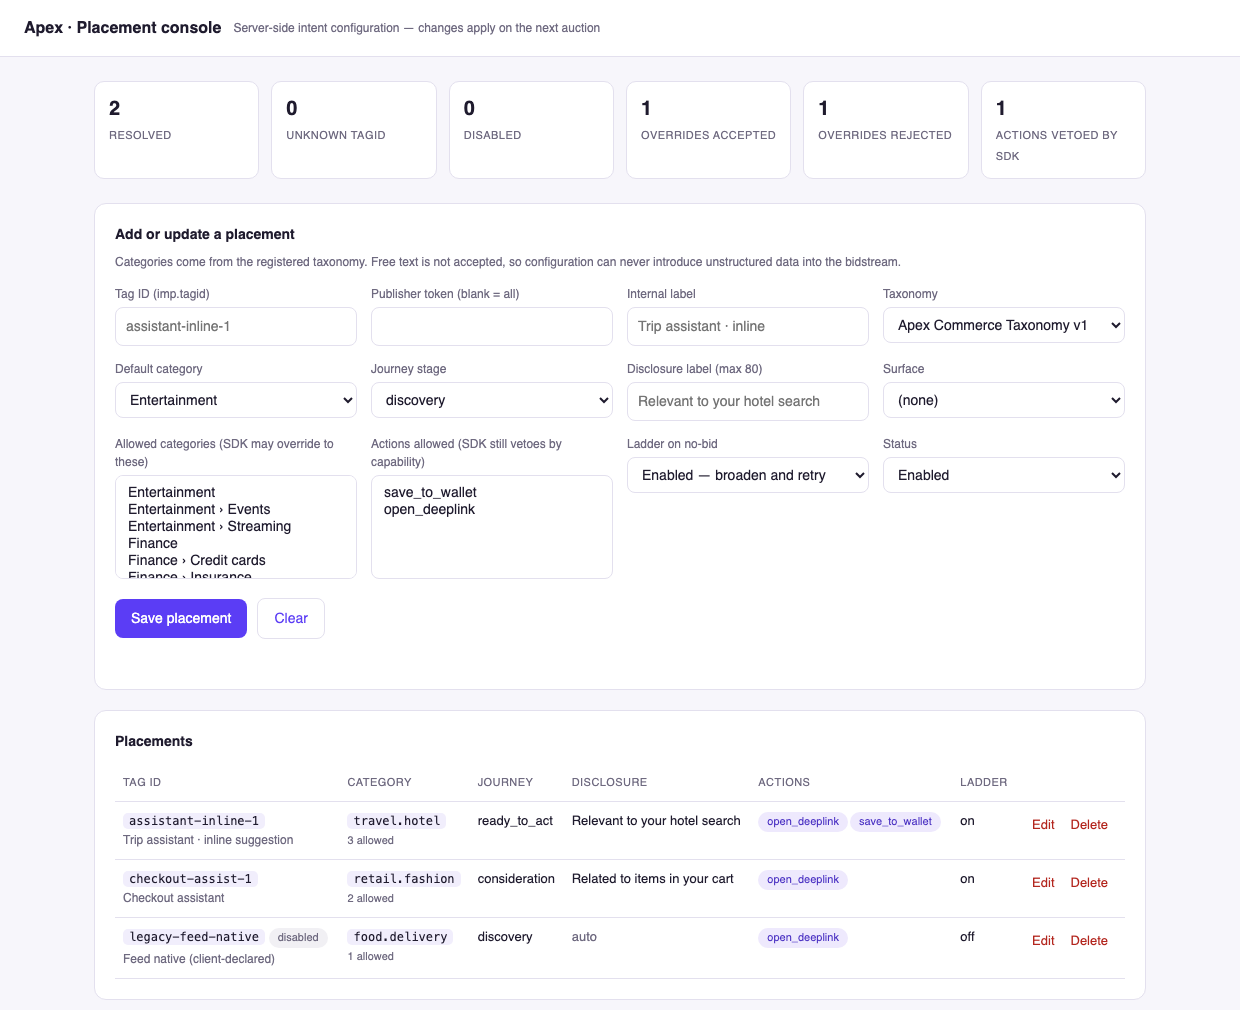
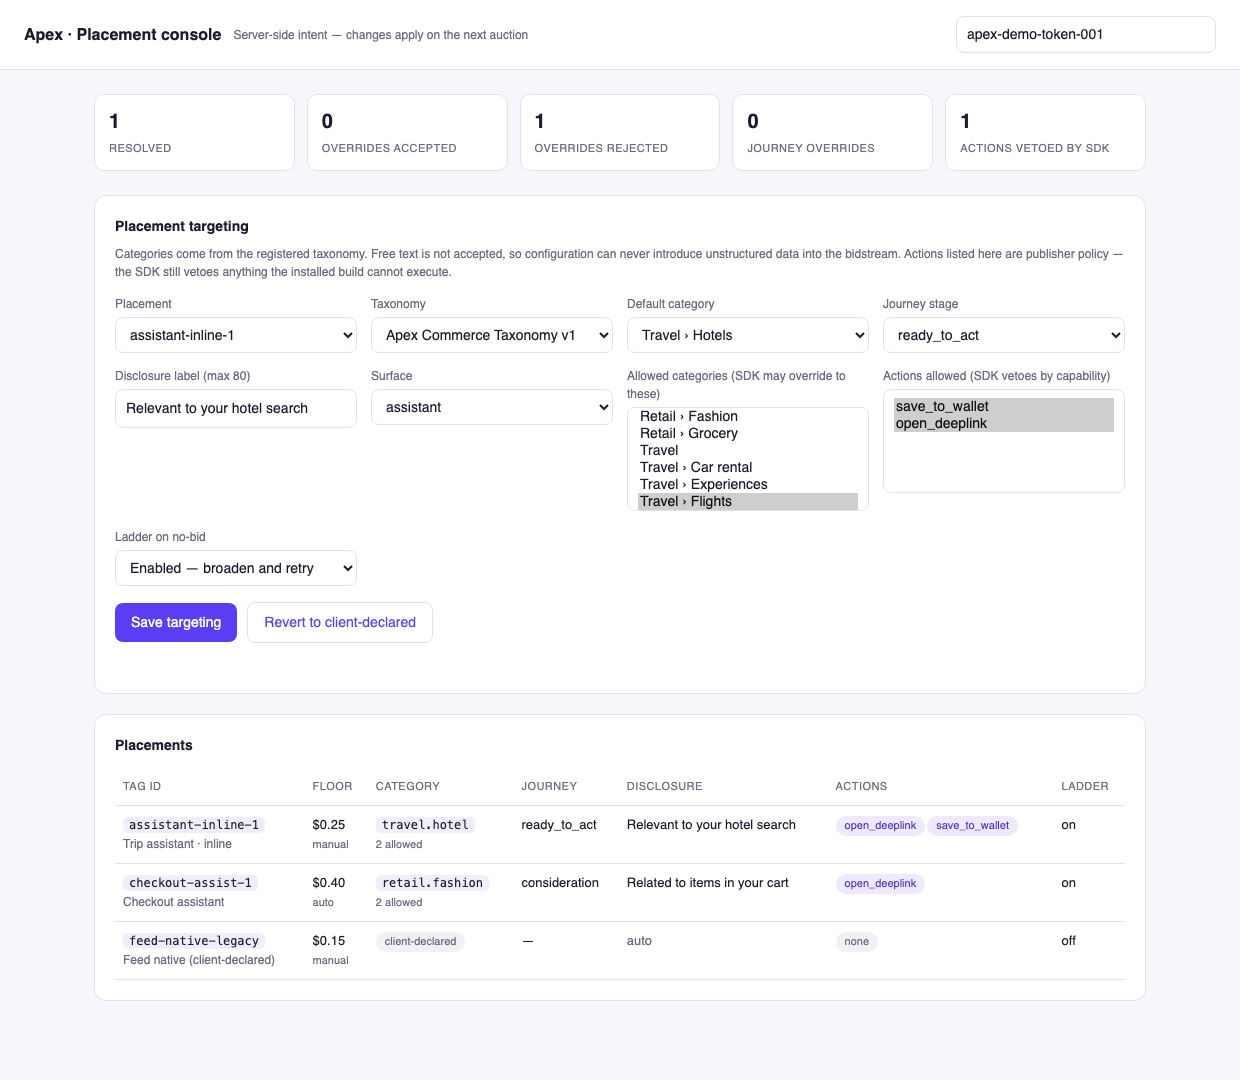
docs: point Card Live 2 at the merged publisher console
The placement console now lives on the publisher surface at
/publisher/v1/console, authenticated by the publisher's own token, with floors
and targeting on the same placement record. Updates the screenshot and the
cross-repo link accordingly.

diff --git a/demo-app/src/androidTest/java/com/apexads/demo/ApexIntelligenceLoadInstrumentationTest.java b/demo-app/src/androidTest/java/com/apexads/demo/ApexIntelligenceLoadInstrumentationTest.java
@@ -1,0 +1,145 @@
+package com.apexads.demo;
+
+import static com.google.common.truth.Truth.assertThat;
+
+import android.app.Application;
+import android.os.Bundle;
+
+import androidx.annotation.NonNull;
+import androidx.test.core.app.ApplicationProvider;
+import androidx.test.ext.junit.runners.AndroidJUnit4;
+import androidx.test.platform.app.InstrumentationRegistry;
+
+import com.apexads.sdk.ApexAds;
+import com.apexads.sdk.ApexAdsConfig;
+import com.apexads.sdk.banner.BannerAd;
+import com.apexads.sdk.banner.BannerAdListener;
+import com.apexads.sdk.core.error.AdError;
+import com.apexads.sdk.core.models.AdSize;
+import com.apexads.sdk.core.models.openrtb.BidRequest;
+import com.apexads.sdk.core.request.OpenRTBRequestBuilder;
+import com.apexads.sdk.internal.ApexSdkRuntime;
+
+import org.junit.After;
+import org.junit.Before;
+import org.junit.Test;
+import org.junit.runner.RunWith;
+
+import java.util.ArrayList;
+import java.util.List;
+import java.util.concurrent.CountDownLatch;
+import java.util.concurrent.TimeUnit;
+import java.util.concurrent.atomic.AtomicInteger;
+
+/**
+ * Sends real SDK-built auction requests to a developer-supplied Ad Server.
+ *
+ * <p>The test intentionally never calls {@code show()}. Consequently it never
+ * renders an ad and never fires win, bill, viewable-impression, click, or
+ * conversion trackers. Every request is test mode, LMT/DNT, and identity-free.</p>
+ */
+@RunWith(AndroidJUnit4.class)
+public class ApexIntelligenceLoadInstrumentationTest {
+
+    private static final String DEFAULT_ENDPOINT =
+            "http://10.0.2.2:18080/openrtb/v1/auction";
+    private static final int DEFAULT_LOAD_COUNT = 250;
+    private static final int DEFAULT_BATCH_SIZE = 25;
+
+    private int loadCount;
+    private int batchSize;
+
+    @Before
+    public void setUp() {
+        ApexSdkRuntime.reset();
+        Bundle arguments = InstrumentationRegistry.getArguments();
+        loadCount = boundedInt(arguments.getString("apexLoadCount"), DEFAULT_LOAD_COUNT, 1, 10_000);
+        batchSize = boundedInt(arguments.getString("apexBatchSize"), DEFAULT_BATCH_SIZE, 1, 100);
+        String endpoint = arguments.getString("apexAdServerUrl", DEFAULT_ENDPOINT);
+
+        Application application = ApplicationProvider.getApplicationContext();
+        ApexAds.init(application, new ApexAdsConfig.Builder("apex-intelligence-synthetic")
+                .adServerUrl(endpoint)
+                .trackingUrl("http://10.0.2.2:18080")
+                .requestTimeoutMs(2_000)
+                .cacheTtlSeconds(1)
+                .coppa(1)
+                .testMode(true)
+                .debugFakeFill(false)
+                .debugLogging(false)
+                .build());
+    }
+
+    @After
+    public void tearDown() {
+        ApexSdkRuntime.reset();
+    }
+
+    @Test
+    public void sendsSyntheticAuctionLoadsWithoutRenderingOrTracking() throws Exception {
+        BidRequest identityProbe = new OpenRTBRequestBuilder(
+                ApexSdkRuntime.getDeviceInfoProvider(),
+                ApexSdkRuntime.getConsentManager())
+                .placementId("identity-safety-probe")
+                .build();
+        assertThat(identityProbe.device.ifa).isNull();
+        assertThat(identityProbe.user.id).isNull();
+        assertThat(identityProbe.device.lmt).isEqualTo(1);
+        assertThat(identityProbe.device.dnt).isEqualTo(1);
+
+        AtomicInteger loaded = new AtomicInteger();
+        AtomicInteger failed = new AtomicInteger();
+
+        for (int offset = 0; offset < loadCount; offset += batchSize) {
+            int batchCount = Math.min(batchSize, loadCount - offset);
+            CountDownLatch completed = new CountDownLatch(batchCount);
+            List<BannerAd> batch = new ArrayList<>(batchCount);
+
+            for (int index = 0; index < batchCount; index++) {
+                int sequence = offset + index;
+                BannerAd ad = new BannerAd.Builder("intelligence-synthetic-" + sequence)
+                        .adSize(AdSize.BANNER_320x50)
+                        .bidFloor(0.05)
+                        .listener(new BannerAdListener() {
+                            @Override
+                            public void onAdLoaded() {
+                                loaded.incrementAndGet();
+                                completed.countDown();
+                            }
+
+                            @Override
+                            public void onAdFailed(@NonNull AdError error) {
+                                failed.incrementAndGet();
+                                completed.countDown();
+                            }
+                        })
+                        .build();
+                batch.add(ad);
+                ad.load();
+            }
+
+            assertThat(completed.await(30, TimeUnit.SECONDS)).isTrue();
+            for (BannerAd ad : batch) {
+                ad.destroy();
+            }
+        }
+
+        int completed = loaded.get() + failed.get();
+        System.out.println("APEX_SYNTHETIC_LOAD_SUMMARY requested=" + loadCount
+                + " batch_size=" + batchSize
+                + " completed=" + completed
+                + " loaded=" + loaded.get()
+                + " failed=" + failed.get());
+        assertThat(completed).isEqualTo(loadCount);
+        assertThat(loaded.get()).isGreaterThan(0);
+    }
+
+    private static int boundedInt(String value, int fallback, int minimum, int maximum) {
+        if (value == null) return fallback;
+        try {
+            return Math.max(minimum, Math.min(maximum, Integer.parseInt(value)));
+        } catch (NumberFormatException ignored) {
+            return fallback;
+        }
+    }
+}

diff --git a/docs/APEX_INTELLIGENCE_LOAD_TEST.md b/docs/APEX_INTELLIGENCE_LOAD_TEST.md
@@ -1,0 +1,28 @@
+# Apex Intelligence SDK load test
+
+`ApexIntelligenceLoadInstrumentationTest` validates the SDK → Ad Server →
+Intelligence transport using explicitly synthetic auction opportunities.
+
+It does not render ads and does not call win, bill, impression, click, or
+conversion trackers. Test mode suppresses advertising/user IDs and declares
+LMT/DNT. Intelligence stores this traffic as `traffic_kind=synthetic`, which is
+never eligible for model training or readiness gates.
+
+With an emulator running and a test Ad Server listening on the host:
+
+```bash
+./gradlew :demo-app:connectedDebugAndroidTest \
+  -Pandroid.testInstrumentationRunnerArguments.class=com.apexads.demo.ApexIntelligenceLoadInstrumentationTest \
+  -Pandroid.testInstrumentationRunnerArguments.apexLoadCount=1000 \
+  -Pandroid.testInstrumentationRunnerArguments.apexBatchSize=25 \
+  -Pandroid.testInstrumentationRunnerArguments.apexAdServerUrl=http://10.0.2.2:18080/openrtb/v1/auction
+```
+
+Keep the test endpoint isolated from advertiser reporting. A successful run
+proves request construction, auction transport, queue behavior, schema
+validation, and observation persistence; it does not prove CTR lift or model
+maturity.
+
+Set `apexBatchSize=1` when validating functional bidder behavior independently
+of burst capacity. Increase it deliberately for concurrency and circuit-breaker
+testing.

diff --git a/README.md b/README.md
@@ -192,7 +192,7 @@ is what preserves the "no free-form text in the bidstream" guarantee now that th
 is editable at runtime. The counters show the contract working live: overrides accepted
 versus rejected, and how often the SDK's capability veto dropped an action the placement
 allowed but the build could not perform. Full details in the
-[Apex Ad Server README](https://github.com/Madroid2/apex-ad-server#placement-registry--publisher-console).
+[Apex Ad Server README](https://github.com/Madroid2/apex-ad-server#server-side-intent).
 
 ## Portfolio Demo: Agentic Creative Review Loop
 
